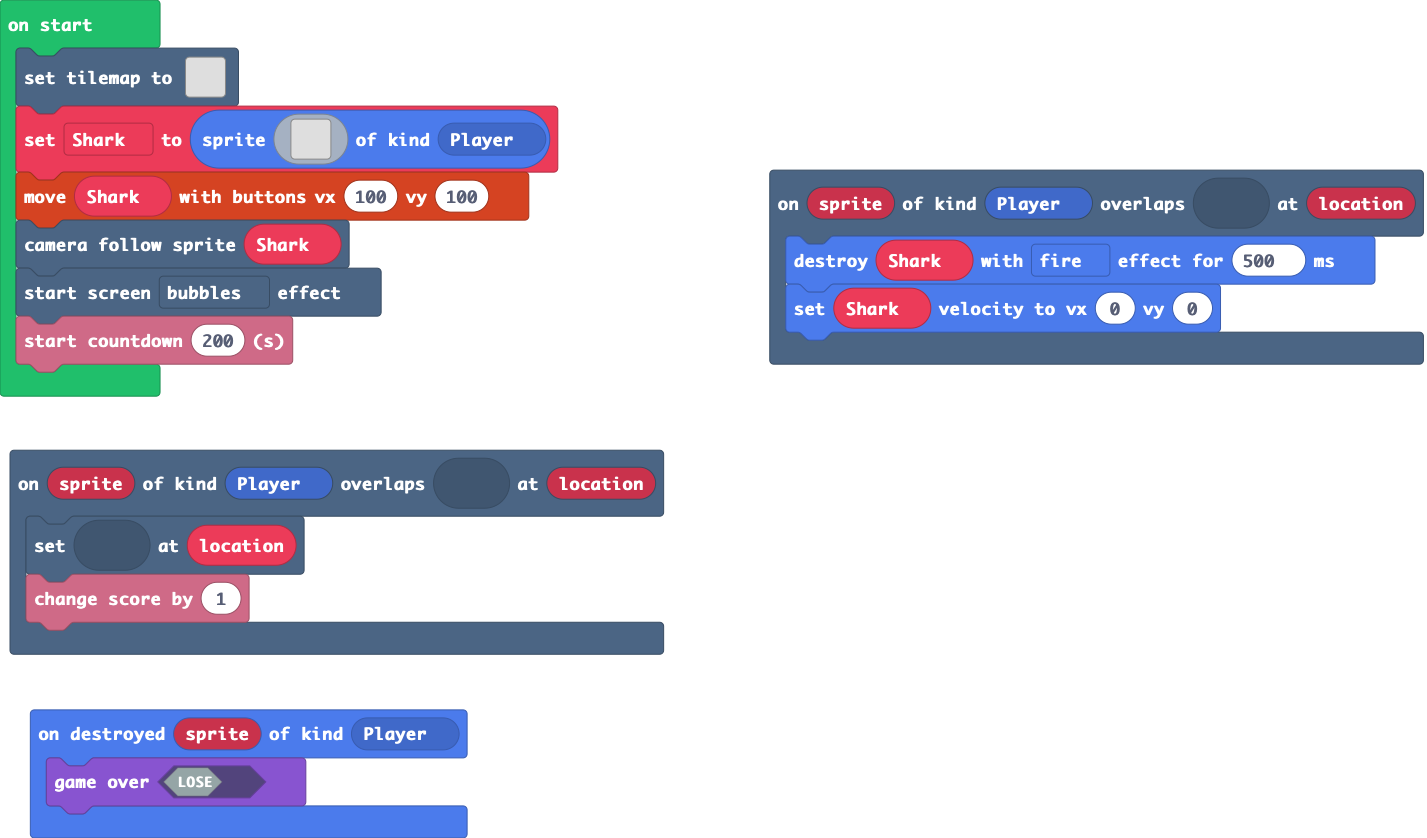
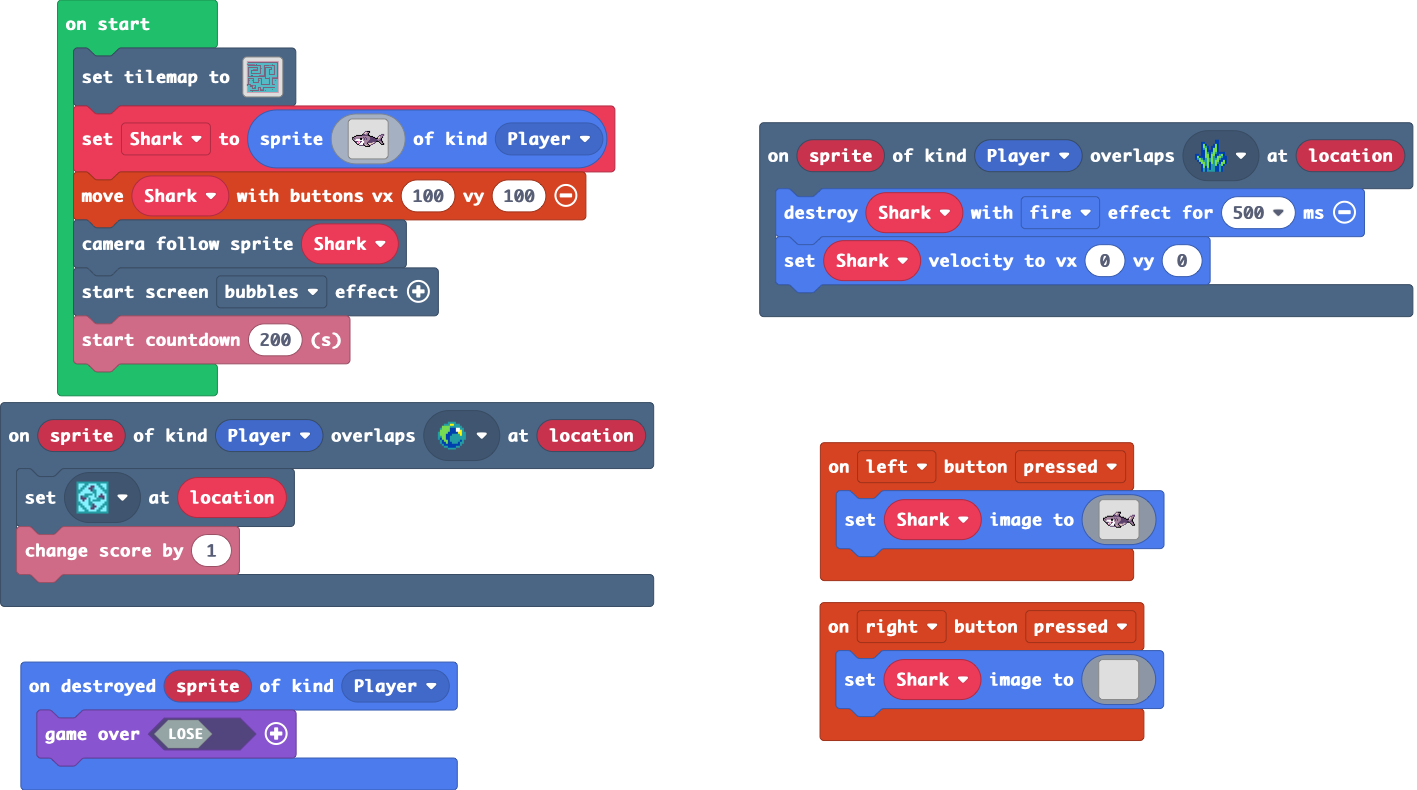
obracanie rekina

diff --git a/main.ts b/main.ts
@@ -2,9 +2,49 @@ scene.onOverlapTile(SpriteKind.Player, sprites.swamp.swampTile3, function (sprit
     Shark.destroy(effects.fire, 500)
     Shark.setVelocity(0, 0)
 })
+controller.left.onEvent(ControllerButtonEvent.Pressed, function () {
+    Shark.setImage(img`
+        .............ccfff..............
+        ............cddbbf..............
+        ...........cddbbf...............
+        ..........fccbbcf............ccc
+        ....ffffffccccccff.........ccbbc
+        ..ffbbbbbbbbbbbbbcfff.....cdbbc.
+        ffbbbbbbbbbcbcbbbbcccff..cddbbf.
+        fbcbbbbbffbbcbcbbbcccccfffdbbf..
+        fbbb1111ff1bcbcbbbcccccccbbbcf..
+        .fb11111111bbbbbbcccccccccbccf..
+        ..fccc33cc11bbbbccccccccfffbbcf.
+        ...fc131c111bbbcccccbdbc...fbbf.
+        ....f33c111cbbbfdddddcc.....fbbf
+        .....ff1111fbdbbfddcc........fff
+        .......cccccfbdbbfc.............
+        .............fffff..............
+        `)
+})
 scene.onOverlapTile(SpriteKind.Player, sprites.dungeon.collectibleBlueCrystal, function (sprite, location) {
     tiles.setTileAt(location, sprites.dungeon.collectibleInsignia)
     info.changeScoreBy(1)
+})
+controller.right.onEvent(ControllerButtonEvent.Pressed, function () {
+    Shark.setImage(img`
+        ..............fffcc.............
+        ..............fbbddc............
+        ...............fbbddc...........
+        ccc............fcbbccf..........
+        cbbcc.........ffccccccffffff....
+        .cbbdc.....fffcbbbbbbbbbbbbbff..
+        .fbbddc..ffcccbbbbcbcbbbbbbbbbff
+        ..fbbdfffcccccbbbcbcbbffbbbbbcbf
+        ..fcbbbcccccccbbbcbcb1ff1111bbbf
+        ..fccbcccccccccbbbbbb11111111bf.
+        .fcbbfffccccccccbbbb11cc33cccf..
+        .fbbf...cbdbcccccbbb111c131cf...
+        fbbf.....ccdddddfbbbc111c33f....
+        fff........ccddfbbdbf1111ff.....
+        .............cfbbdbfccccc.......
+        ..............fffff.............
+        `)
 })
 sprites.onDestroyed(SpriteKind.Player, function (sprite) {
     game.over(false)
